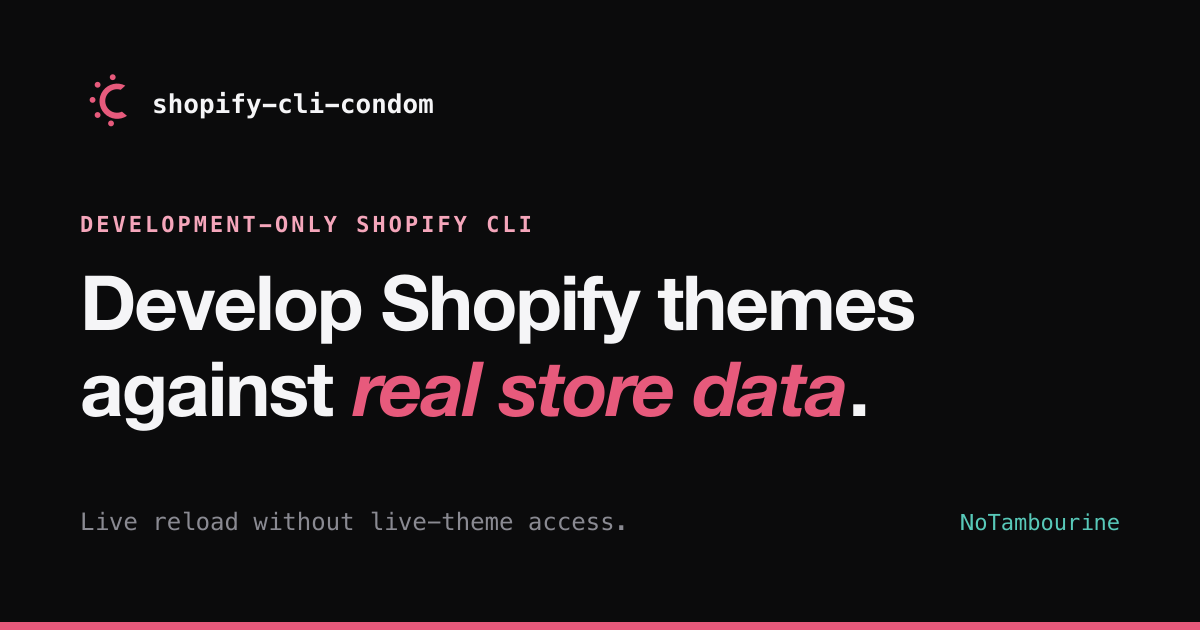
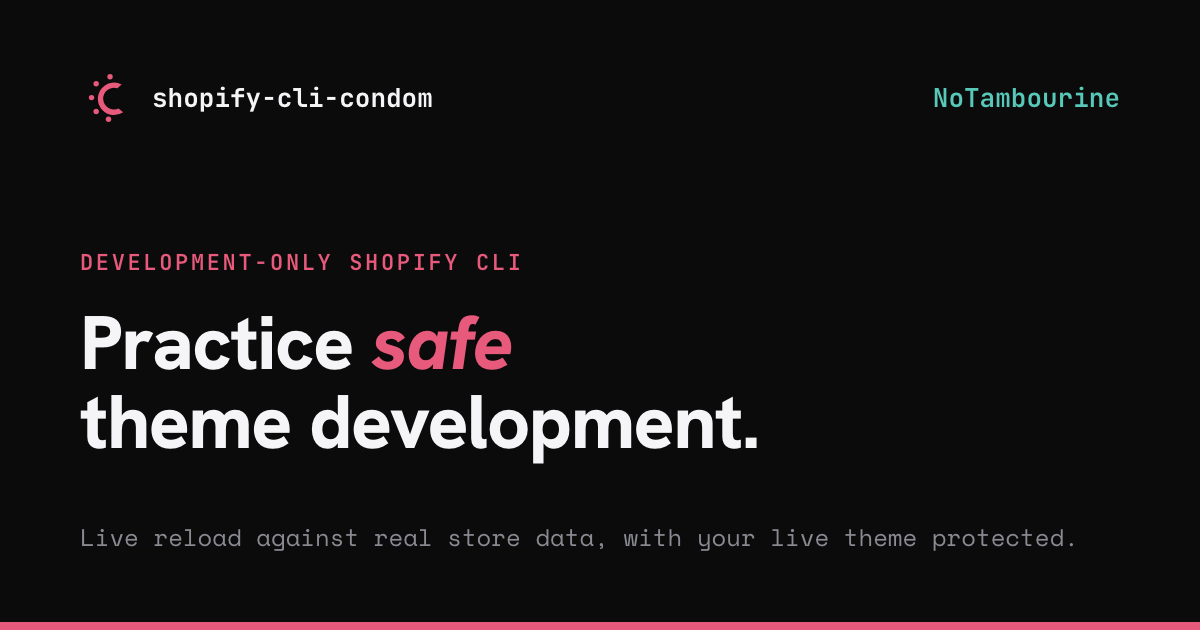
Practice safe theme development: name-led public copy (#47)
* guard: prove HTTP proxy variables never reach Shopify CLI

* copy: lead with 'never change the live theme' and a lighter footer

* copy: practice safe theme development

* worker: link preview leads with practice safe theme development

* worker: test the safe theme development headline

diff --git a/worker/src/landing.ts b/worker/src/landing.ts
@@ -5,7 +5,7 @@ const render = (host: string) => `<!doctype html>
 <head>
   <meta charset="utf-8">
   <meta name="viewport" content="width=device-width, initial-scale=1">
-  <meta name="description" content="Give developers and AI agents a sealed Shopify theme token that reads any theme and writes only to development themes.">
+  <meta name="description" content="Live reload against real store data, with your live theme protected.">
   <title>shopify-cli-condom proxy · sealed Shopify theme tokens</title>
   <link rel="icon" type="image/svg+xml" href="${brandFavicon}">
   <link rel="canonical" href="https://${host}/">
@@ -13,12 +13,12 @@ const render = (host: string) => `<!doctype html>
   <meta property="og:site_name" content="NoTambourine">
   <meta property="og:url" content="https://${host}/">
   <meta property="og:title" content="shopify-cli-condom proxy · sealed Shopify theme tokens">
-  <meta property="og:description" content="Give developers and AI agents a sealed Shopify theme token that reads any theme and writes only to development themes.">
+  <meta property="og:description" content="Live reload against real store data, with your live theme protected.">
   <meta property="og:image" content="https://${host}/og.png">
   <meta property="og:image:type" content="image/png">
   <meta property="og:image:width" content="1200">
   <meta property="og:image:height" content="630">
-  <meta property="og:image:alt" content="Develop Shopify themes against real store data. Live reload without live-theme access.">
+  <meta property="og:image:alt" content="Practice safe theme development. Live reload against real store data, with your live theme protected.">
   <meta name="twitter:card" content="summary_large_image">
   <style>
     ${brandStyles}
@@ -35,7 +35,6 @@ const render = (host: string) => `<!doctype html>
     pre { overflow-x: auto; margin: 0; padding: var(--sp-5); background: var(--bg-card); border: 1px solid var(--line); border-radius: var(--r-md); color: var(--fg2); line-height: 1.6; }
     pre code { padding: 0; background: none; color: inherit; }
     .nt-footer p { font-size: inherit; color: inherit; }
-    .nt-footer strong { color: var(--fg1); }
   </style>
 </head>
 <body>
@@ -53,9 +52,9 @@ const render = (host: string) => `<!doctype html>
     <section class="nt-section nt-stack" style="--gap: var(--sp-8)">
       <div class="nt-stack" style="--gap: var(--sp-5)">
         <p class="eyebrow">Shopify theme proxy</p>
-        <h1 class="display">Pull the live theme. Change only <em>development</em> themes.</h1>
+        <h1 class="display">Practice <em>safe</em> theme development.</h1>
       </div>
-      <p class="lede nt-measure">The proxy holds your Theme Access token. Developers and AI agents get a sealed copy that expires.</p>
+      <p class="lede nt-measure">Live reload against real store data, with your live theme protected. The proxy holds your Theme Access token, and developers and AI agents get a sealed copy that expires.</p>
       <div class="nt-cluster" style="--gap: var(--sp-4)">
         <a class="nt-btn nt-btn--primary nt-btn--lg" href="#setup">Connect a project</a>
         <a class="nt-btn nt-btn--ghost nt-btn--lg" href="#limits">Read the limits</a>
@@ -104,7 +103,7 @@ const render = (host: string) => `<!doctype html>
         </article>
         <article class="nt-card nt-stack" style="--gap: var(--sp-3)">
           <h3>Expiring</h3>
-          <p>Each sealed token expires on a date set when it is issued.</p>
+          <p>Sealed tokens expire on their own.</p>
         </article>
       </div>
     </section>
@@ -134,7 +133,6 @@ SHOPIFY_CLI_THEME_TOKEN=shptka_sealed_...</code></pre>
   </main>
   <footer class="nt-footer">
     <a href="https://notambourine.com" class="nt-brand" aria-label="NoTambourine home"><img src="${brandLockup}" alt=""></a>
-    <p><strong>Engineering measured in results, not hours.</strong> We run this proxy on client stores every day.</p>
     <nav class="nt-footer__groups" aria-label="Site">
       <div>
         <p class="nt-footer__label">shopify-cli-condom</p>
@@ -150,7 +148,7 @@ SHOPIFY_CLI_THEME_TOKEN=shptka_sealed_...</code></pre>
         </ul>
       </div>
     </nav>
-    <p class="nt-footer__legal">Open source by NoTambourine · a boutique AI-native engineering agency.</p>
+    <p class="nt-footer__legal">Made with 💙 by <a href="https://notambourine.com">NoTambourine</a>.</p>
   </footer>
 </body>
 </html>`;

diff --git a/test/guard.test.ts b/test/guard.test.ts
@@ -57,6 +57,8 @@ test('does not inherit targeting, node injection, or other Shopify configuration
     HOME: '/home/test', SHOPIFY_CLI_THEME_TOKEN: 'test-token',
     SHOPIFY_FLAG_ALLOW_LIVE: '1', SHOPIFY_FLAG_THEME_ID: '123', SHOPIFY_FLAG_ENVIRONMENT: 'production',
     SHOPIFY_FLAG_STORE: 'production', SHOPIFY_CLI_PLUGINS: '/plugin', NODE_OPTIONS: '--import=/injection.js',
+    HTTPS_PROXY: 'http://proxy.example', HTTP_PROXY: 'http://proxy.example', https_proxy: 'http://proxy.example',
+    ALL_PROXY: 'socks5://proxy.example', NO_PROXY: '*',
   });
   assert.deepEqual(env, { ...state, SHOPIFY_CLI_THEME_TOKEN: 'test-token' });
   assert.throws(() => childEnvironment({}), /SHOPIFY_CLI_THEME_TOKEN/);

diff --git a/worker/test/handler.test.ts b/worker/test/handler.test.ts
@@ -152,7 +152,7 @@ test('serves a public landing page without touching Shopify', async () => {
   assert.match(response.headers.get('content-type') ?? '', /^text\/html/);
   assert.match(response.headers.get('content-security-policy') ?? '', /frame-ancestors 'none'/);
   const body = await response.text();
-  assert.match(body, /Change only <em>development<\/em> themes/);
+  assert.match(body, /Practice <em>safe<\/em> theme development/);
   assert.match(body, /Shopify has no <em>development-only<\/em> token/);
   assert.match(body, /stolen sealed token can still read every theme/);
   assert.match(body, /github\.com\/notambourine\/shopify-cli-condom/);

diff --git a/README.md b/README.md
@@ -1,7 +1,7 @@
 # shopify-cli-condom
 
-Work on a Shopify theme against real store data without handing developers or
-coding agents a command that can change the live theme.
+Practice safe theme development. Live reload against real store data, with your
+live theme protected.
 
 The wrapper runs two Shopify CLI commands. `dev` creates a fresh development
 theme with local preview and live reload. `pull` downloads any theme, including
@@ -102,5 +102,4 @@ Shopify docs: [theme dev](https://shopify.dev/docs/api/shopify-cli/theme/theme-d
 
 ---
 
-Open source by [NoTambourine](https://notambourine.com) · a boutique AI-native
-engineering agency. [Start a conversation](https://notambourine.com/tom).
+Made with 💙 by [NoTambourine](https://notambourine.com).
